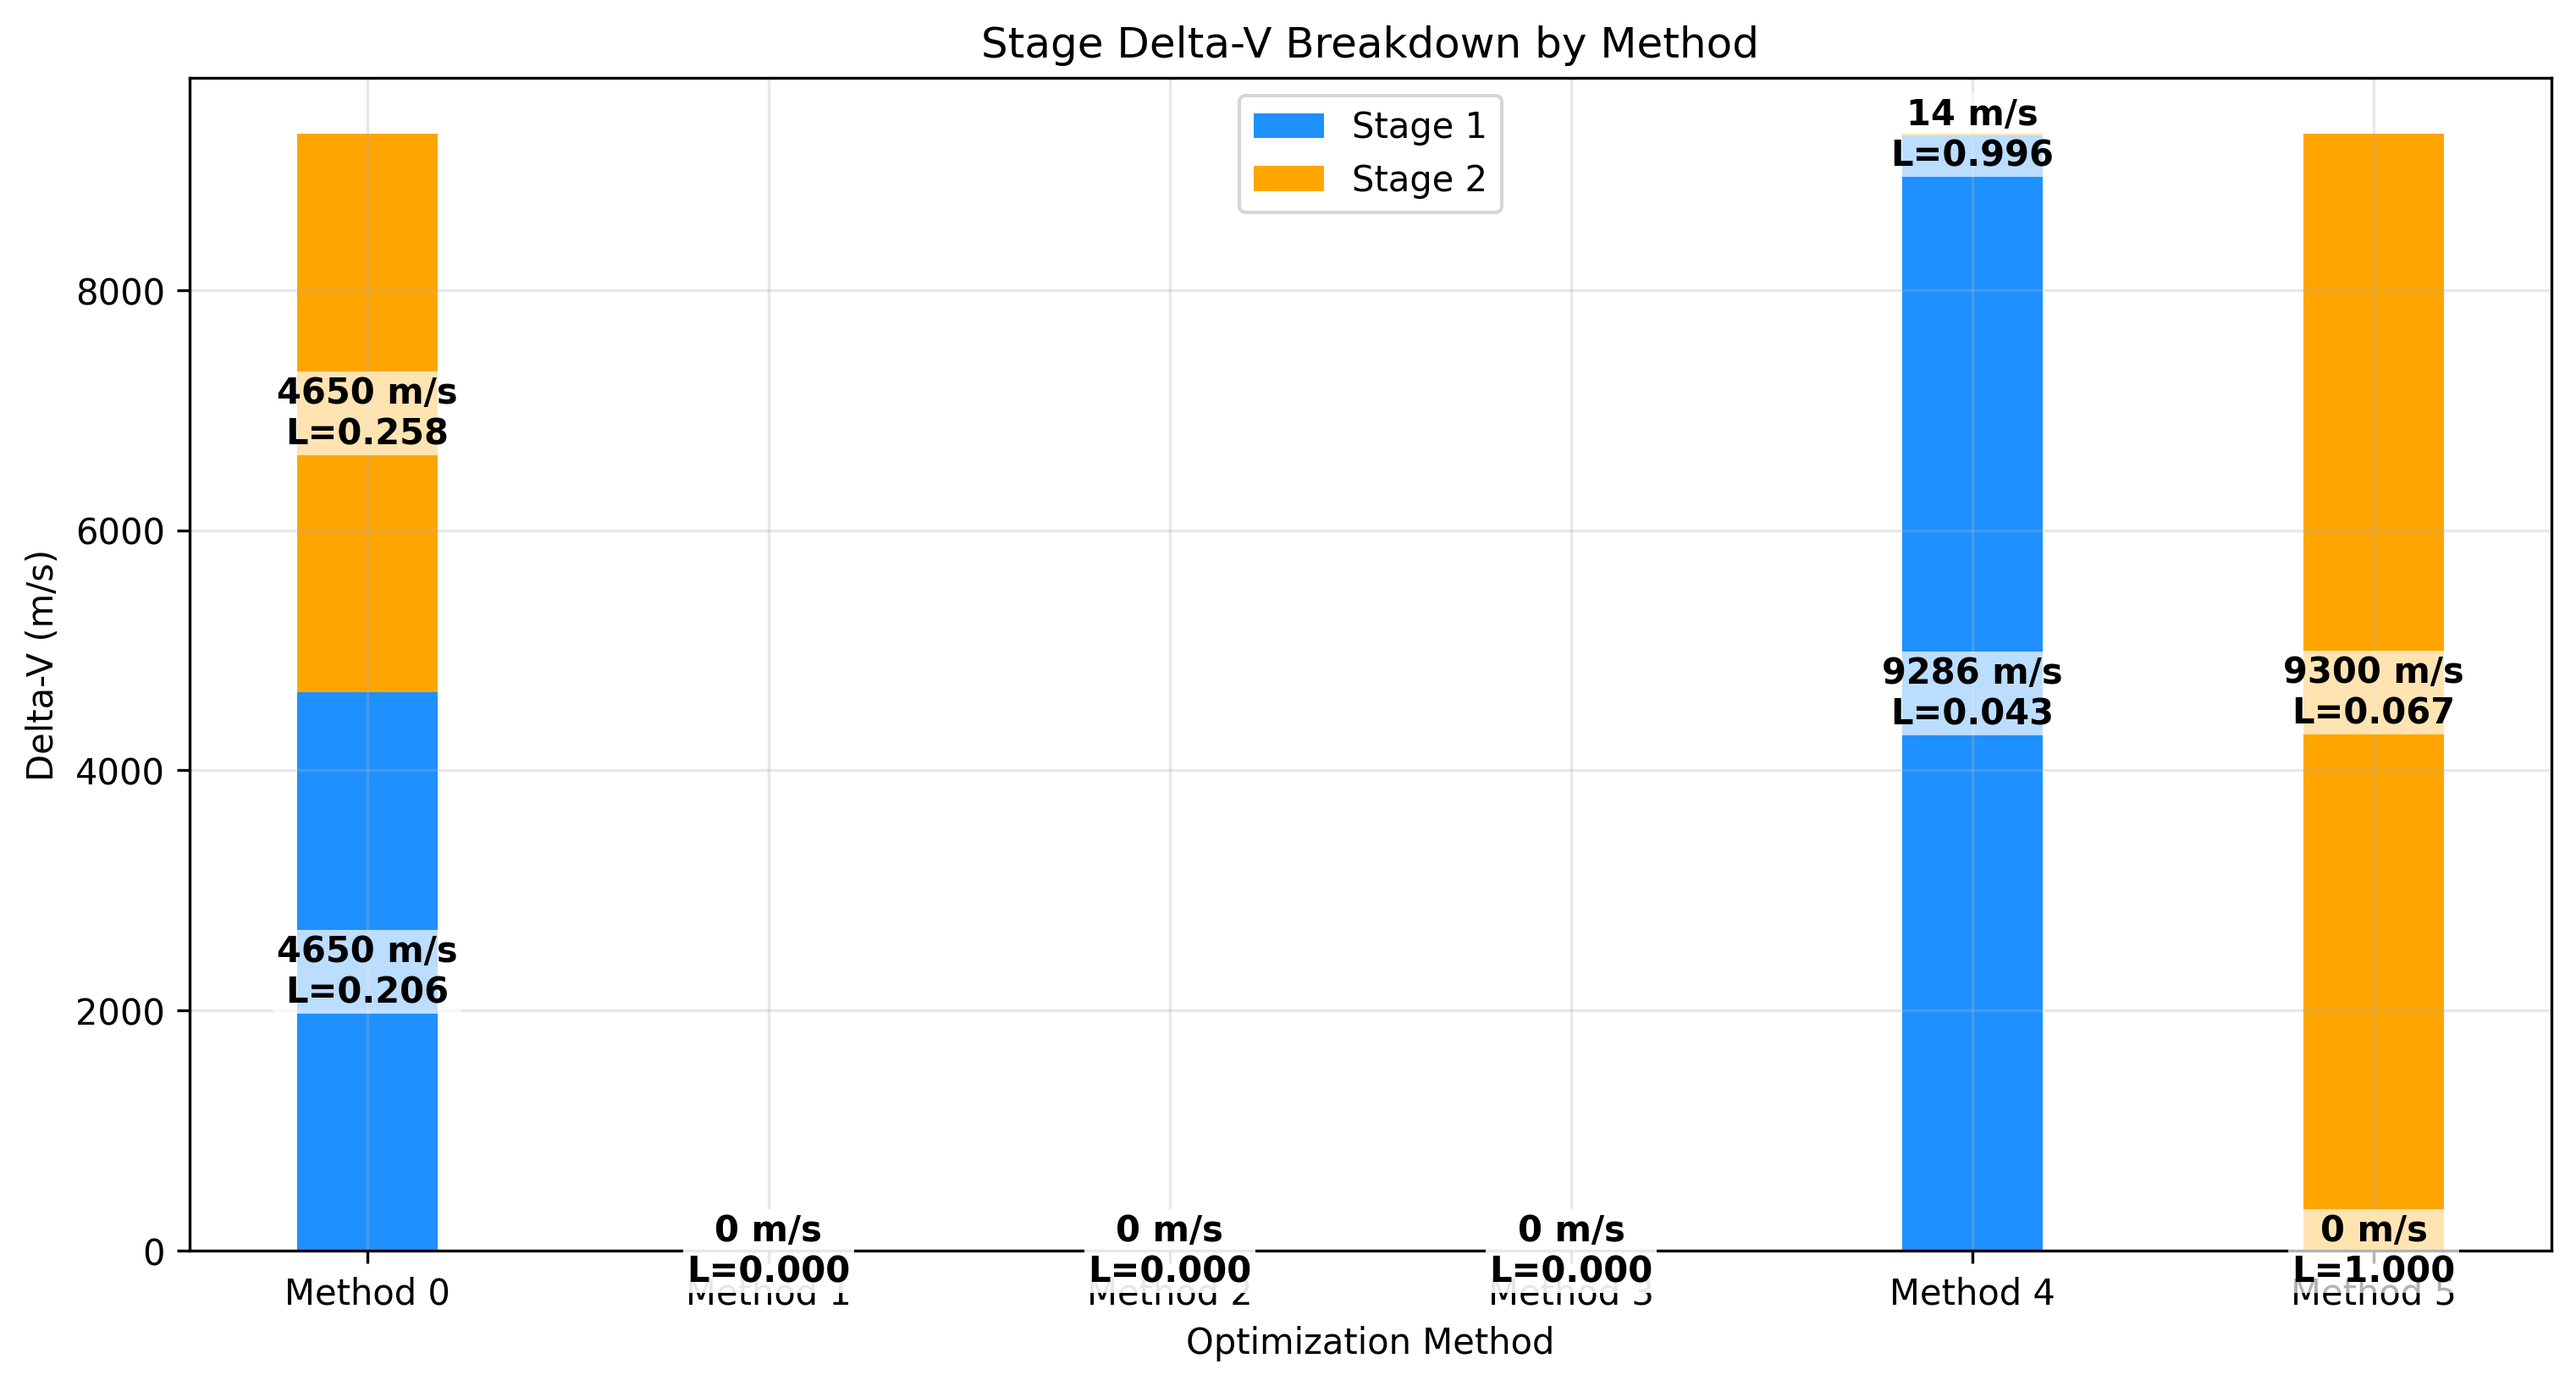
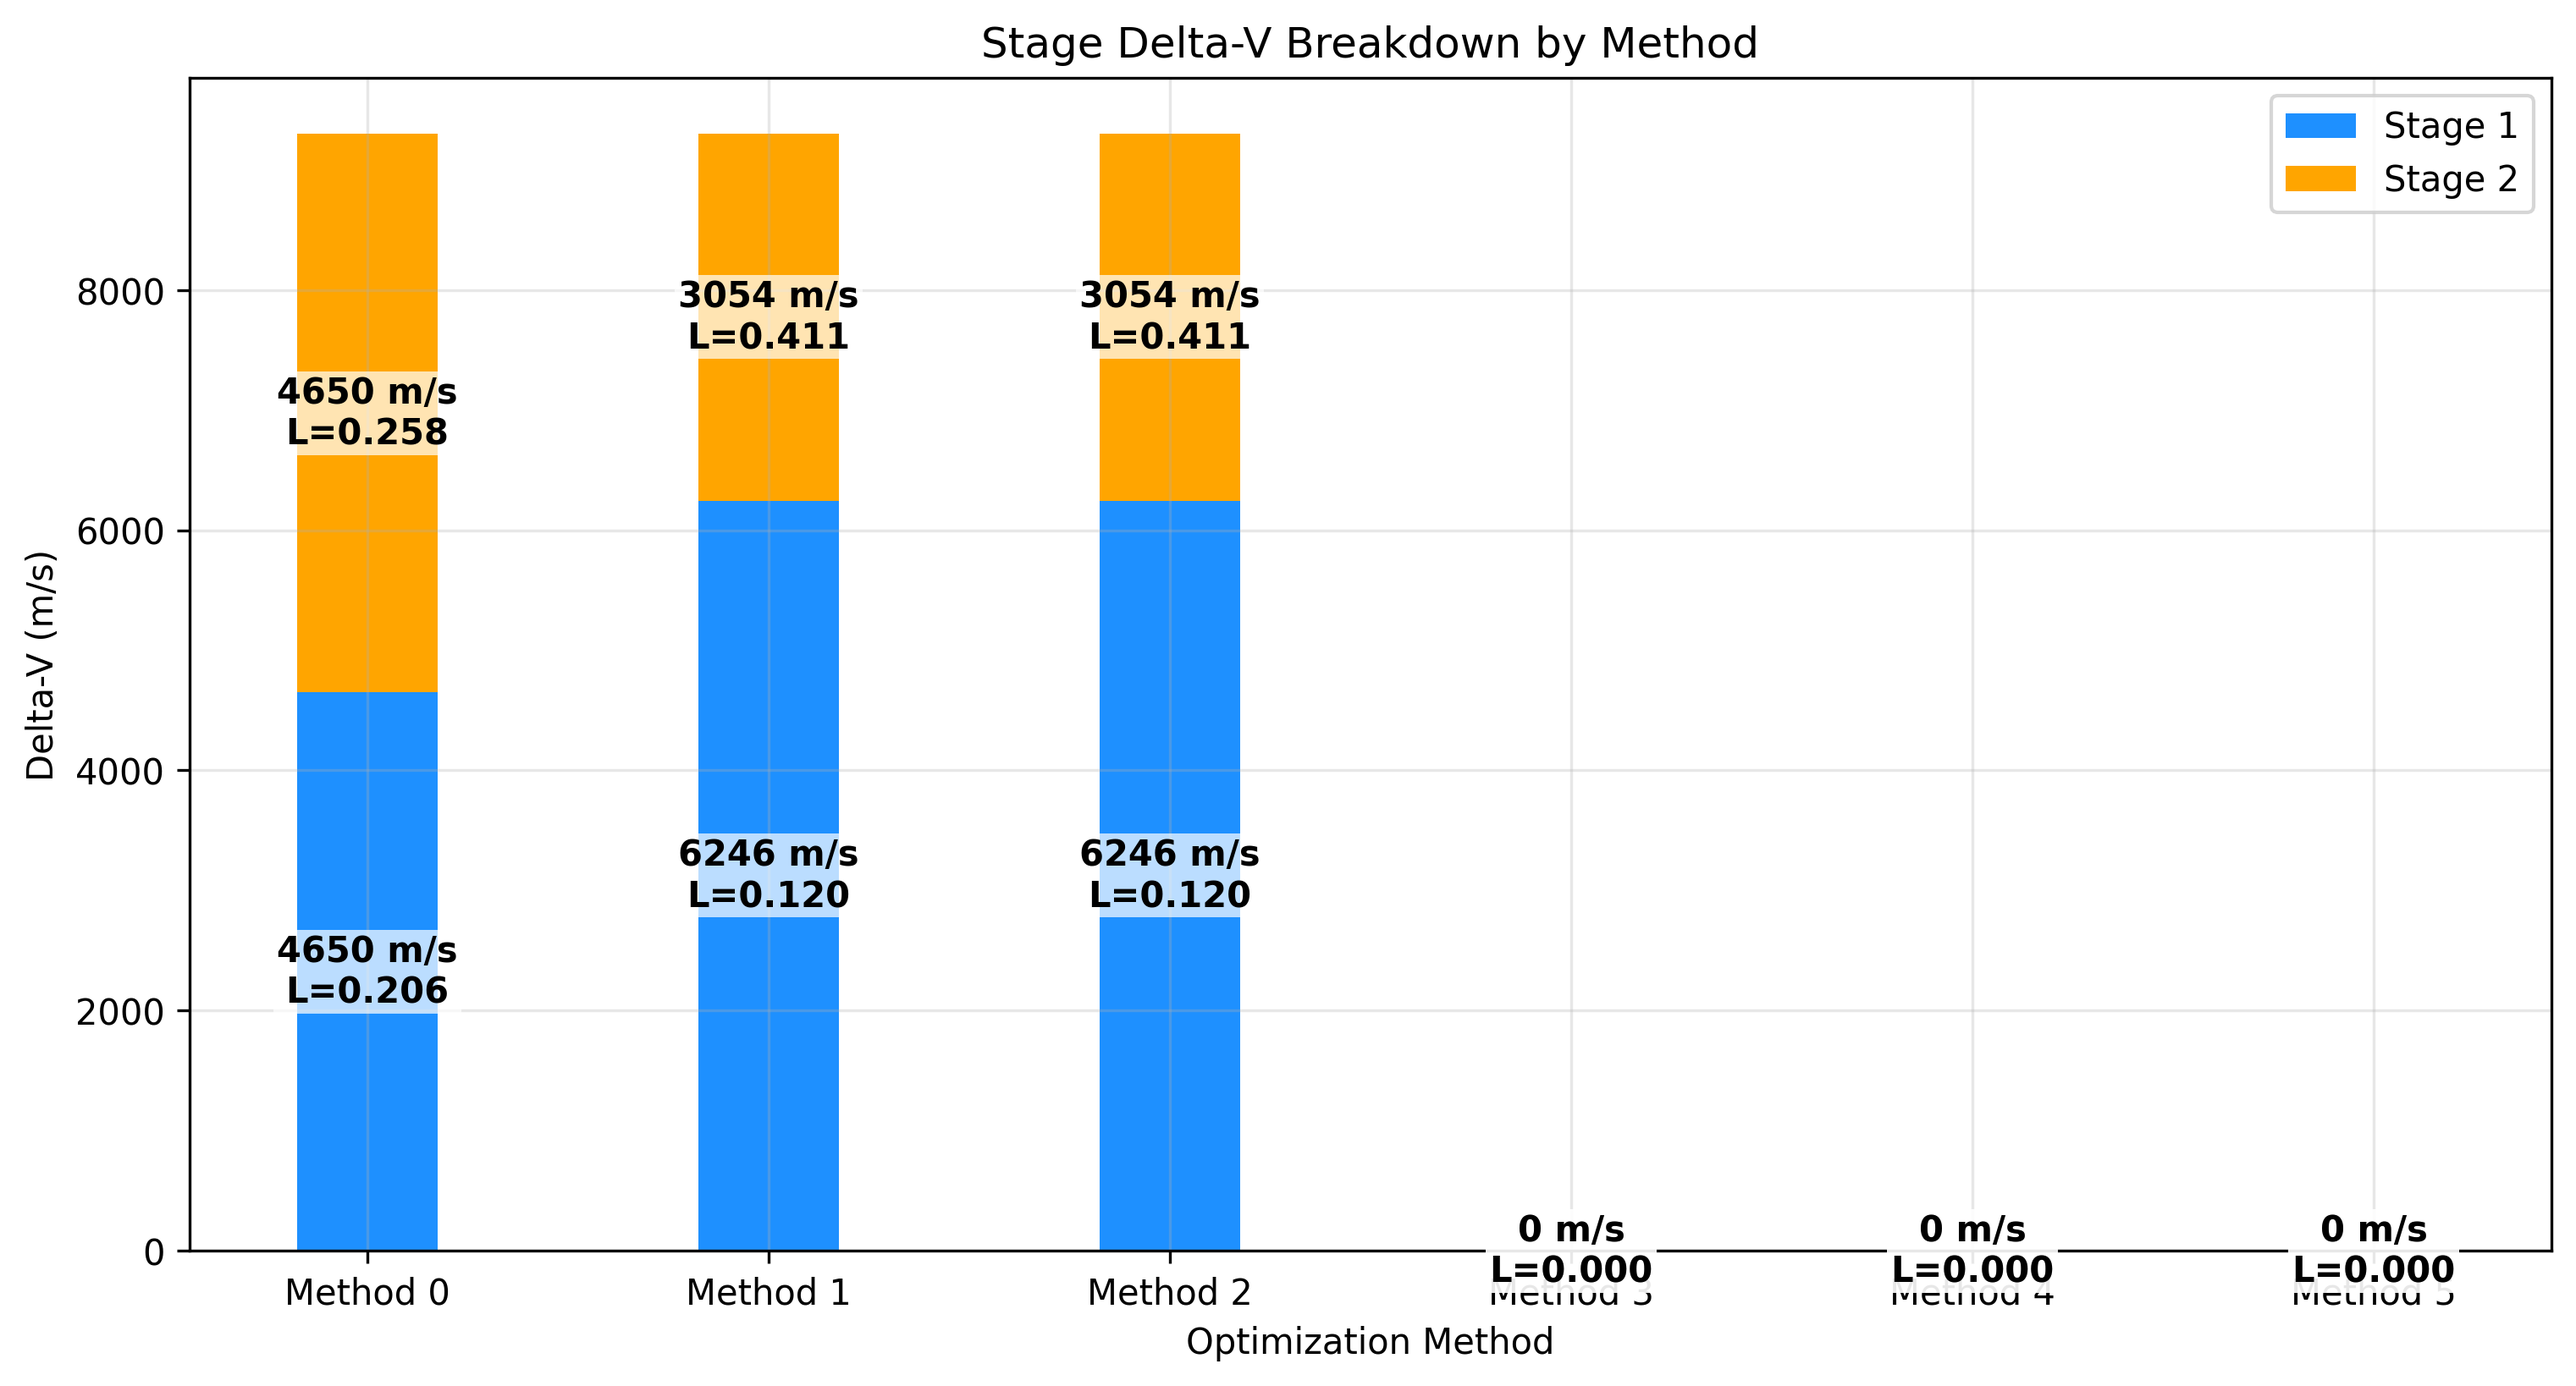
improved constraints

diff --git a/Stage_Opt/src/optimization/solvers/base_ga_solver.py b/Stage_Opt/src/optimization/solvers/base_ga_solver.py
@@ -27,9 +27,26 @@ class BaseGASolver(BaseSolver):
         try:
             n_vars = len(self.bounds)
             population = np.zeros((self.pop_size, n_vars))
-            for i in range(n_vars):
-                lower, upper = self.bounds[i]
-                population[:, i] = np.random.uniform(lower, upper, self.pop_size)
+            
+            # Generate initial population ensuring total ΔV constraint
+            for p in range(self.pop_size):
+                # First generate random fractions that sum to 1
+                fractions = np.random.random(n_vars)
+                fractions /= np.sum(fractions)
+                
+                # Scale fractions by total ΔV
+                population[p] = fractions * self.TOTAL_DELTA_V
+                
+                # Ensure each component is within bounds
+                for i in range(n_vars):
+                    lower, upper = self.bounds[i]
+                    population[p,i] = np.clip(population[p,i], lower, upper)
+                
+                # Normalize to ensure total ΔV constraint
+                total = np.sum(population[p])
+                if total > 0:
+                    population[p] *= self.TOTAL_DELTA_V / total
+                    
             return population
         except Exception as e:
             logger.error(f"Error initializing population: {str(e)}")
@@ -86,7 +103,7 @@ class BaseGASolver(BaseSolver):
             return None
 
     def crossover(self, parent1, parent2):
-        """Perform crossover between parents."""
+        """Perform crossover between parents while maintaining total ΔV constraint."""
         try:
             if parent1 is None or parent2 is None:
                 return None, None
@@ -99,6 +116,22 @@ class BaseGASolver(BaseSolver):
             child1 = np.concatenate([parent1[:point], parent2[point:]])
             child2 = np.concatenate([parent2[:point], parent1[point:]])
             
+            # Normalize children to maintain total ΔV constraint
+            for child in [child1, child2]:
+                total = np.sum(child)
+                if total > 0:
+                    child *= self.TOTAL_DELTA_V / total
+                    
+                # Ensure bounds constraints
+                for i in range(len(child)):
+                    lower, upper = self.bounds[i]
+                    child[i] = np.clip(child[i], lower, upper)
+                    
+                # Final normalization after clipping
+                total = np.sum(child)
+                if total > 0:
+                    child *= self.TOTAL_DELTA_V / total
+            
             return child1, child2
             
         except Exception as e:
@@ -106,16 +139,38 @@ class BaseGASolver(BaseSolver):
             return None, None
 
     def mutate(self, individual):
-        """Perform mutation on individual."""
+        """Perform mutation on individual while maintaining total ΔV constraint."""
         try:
             if individual is None:
                 return None
                 
             mutated = individual.copy()
+            total_dv = np.sum(mutated)
+            
             for i in range(len(mutated)):
                 if np.random.random() < self.mutation_rate:
-                    lower, upper = self.bounds[i]
-                    mutated[i] = np.random.uniform(lower, upper)
+                    # Calculate allowed range for this component
+                    remaining_dv = total_dv - mutated[i]
+                    min_allowed = max(self.bounds[i][0], total_dv - remaining_dv)
+                    max_allowed = min(self.bounds[i][1], total_dv - remaining_dv)
+                    
+                    # Generate new value
+                    new_value = np.random.uniform(min_allowed, max_allowed)
+                    
+                    # Adjust other components proportionally
+                    if remaining_dv > 0:
+                        scale = (total_dv - new_value) / remaining_dv
+                        for j in range(len(mutated)):
+                            if j != i:
+                                mutated[j] *= scale
+                    
+                    mutated[i] = new_value
+                    
+            # Final normalization to ensure exact total ΔV
+            total = np.sum(mutated)
+            if total > 0:
+                mutated *= self.TOTAL_DELTA_V / total
+                
             return mutated
             
         except Exception as e:

diff --git a/Stage_Opt/src/optimization/solvers/pso_solver.py b/Stage_Opt/src/optimization/solvers/pso_solver.py
@@ -47,10 +47,31 @@ class ParticleSwarmOptimizer(BaseSolver):
             n_vars = len(self.bounds)
             self.swarm = np.zeros((self.swarm_size, n_vars))
             self.velocities = np.zeros((self.swarm_size, n_vars))
-            for i in range(n_vars):
-                lower, upper = self.bounds[i]
-                self.swarm[:, i] = np.random.uniform(lower, upper, self.swarm_size)
-                self.velocities[:, i] = np.random.uniform(-abs(upper-lower), abs(upper-lower), self.swarm_size)
+            
+            # Generate initial swarm ensuring total ΔV constraint
+            for p in range(self.swarm_size):
+                # First generate random fractions that sum to 1
+                fractions = np.random.random(n_vars)
+                fractions /= np.sum(fractions)
+                
+                # Scale fractions by total ΔV
+                self.swarm[p] = fractions * self.TOTAL_DELTA_V
+                
+                # Ensure each component is within bounds
+                for i in range(n_vars):
+                    lower, upper = self.bounds[i]
+                    self.swarm[p,i] = np.clip(self.swarm[p,i], lower, upper)
+                
+                # Normalize to ensure total ΔV constraint
+                total = np.sum(self.swarm[p])
+                if total > 0:
+                    self.swarm[p] *= self.TOTAL_DELTA_V / total
+                    
+                # Initialize velocities proportional to bounds range
+                for i in range(n_vars):
+                    lower, upper = self.bounds[i]
+                    self.velocities[p,i] = np.random.uniform(-0.1*(upper-lower), 0.1*(upper-lower))
+                    
             return True
         except Exception as e:
             logger.error(f"Error initializing swarm: {str(e)}")
@@ -80,19 +101,35 @@ class ParticleSwarmOptimizer(BaseSolver):
             return None
 
     def update_velocities_and_positions(self, personal_best, global_best):
-        """Update velocities and positions of the swarm."""
+        """Update velocities and positions of the swarm while maintaining constraints."""
         try:
             r1 = np.random.rand(self.swarm_size, len(self.bounds))
             r2 = np.random.rand(self.swarm_size, len(self.bounds))
             cognitive_velocity = self.cognitive_factor * r1 * (personal_best - self.swarm)
             social_velocity = self.social_factor * r2 * (global_best - self.swarm)
             self.velocities = self.inertia * self.velocities + cognitive_velocity + social_velocity
-            self.swarm = self.swarm + self.velocities
             
-            # Ensure particles are within bounds
+            # Dampen velocities to prevent large jumps
             for i in range(len(self.bounds)):
                 lower, upper = self.bounds[i]
-                self.swarm[:, i] = np.clip(self.swarm[:, i], lower, upper)
+                max_velocity = 0.1 * (upper - lower)
+                self.velocities[:, i] = np.clip(self.velocities[:, i], -max_velocity, max_velocity)
+            
+            # Update positions
+            self.swarm = self.swarm + self.velocities
+            
+            # Project particles back to feasible space
+            for p in range(self.swarm_size):
+                # First ensure bounds constraints
+                for i in range(len(self.bounds)):
+                    lower, upper = self.bounds[i]
+                    self.swarm[p,i] = np.clip(self.swarm[p,i], lower, upper)
+                
+                # Then ensure total ΔV constraint
+                total = np.sum(self.swarm[p])
+                if total > 0:
+                    self.swarm[p] *= self.TOTAL_DELTA_V / total
+            
             return True
         except Exception as e:
             logger.error(f"Error updating velocities and positions: {str(e)}")

diff --git a/Stage_Opt/src/optimization/solvers/de_solver.py b/Stage_Opt/src/optimization/solvers/de_solver.py
@@ -39,10 +39,41 @@ class DifferentialEvolutionSolver(BaseSolver):
             f"popsize={popsize}, tol={tol}, mutation={mutation}, recombination={recombination}"
         )
         
+    def custom_init(self):
+        """Generate initial population that satisfies total ΔV constraint."""
+        n_vars = len(self.bounds)
+        population = np.zeros((self.popsize * n_vars, n_vars))
+        
+        for i in range(self.popsize * n_vars):
+            # Generate random fractions that sum to 1
+            fractions = np.random.random(n_vars)
+            fractions /= np.sum(fractions)
+            
+            # Scale by total ΔV
+            population[i] = fractions * self.TOTAL_DELTA_V
+            
+            # Ensure bounds constraints
+            for j in range(n_vars):
+                lower, upper = self.bounds[j]
+                population[i,j] = np.clip(population[i,j], lower, upper)
+            
+            # Re-normalize to maintain total ΔV
+            total = np.sum(population[i])
+            if total > 0:
+                population[i] *= self.TOTAL_DELTA_V / total
+                
+        return population
+        
     def objective(self, x):
         """Objective function for DE optimization."""
+        # Project solution to feasible space
+        x_scaled = x.copy()
+        total = np.sum(x_scaled)
+        if total > 0:
+            x_scaled *= self.TOTAL_DELTA_V / total
+            
         return objective_with_penalty(
-            dv=x,
+            dv=x_scaled,
             G0=self.G0,
             ISP=self.ISP,
             EPSILON=self.EPSILON,
@@ -65,13 +96,21 @@ class DifferentialEvolutionSolver(BaseSolver):
                 tol=self.tol,
                 mutation=self.mutation,
                 recombination=self.recombination,
-                disp=False
+                init='random',
+                disp=False,
+                workers=1  # Required for custom objective with state
             )
             
             execution_time = time.time() - start_time
             
+            # Project final solution to feasible space
+            x_final = result.x
+            total = np.sum(x_final)
+            if total > 0:
+                x_final *= self.TOTAL_DELTA_V / total
+            
             return self.process_results(
-                x=result.x,
+                x=x_final,
                 success=result.success,
                 message=result.message,
                 n_iterations=result.nit if hasattr(result, 'nit') else self.maxiter,

diff --git a/Stage_Opt/src/optimization/solvers/base_solver.py b/Stage_Opt/src/optimization/solvers/base_solver.py
@@ -114,7 +114,7 @@ class BaseSolver(ABC):
             
             # Calculate total constraint violation
             constraint_violation = enforce_stage_constraints(
-                dv=x,
+                dv_array=x,
                 total_dv_required=self.TOTAL_DELTA_V,
                 config=self.config
             )
